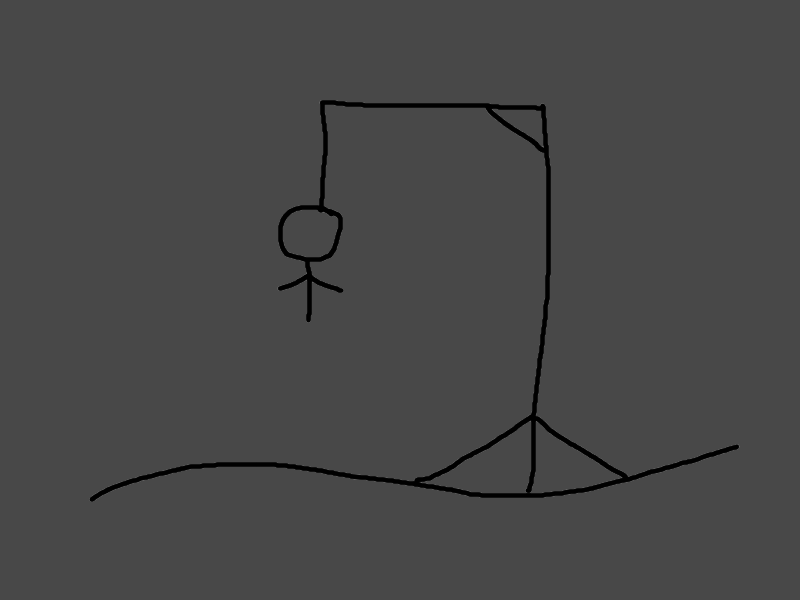
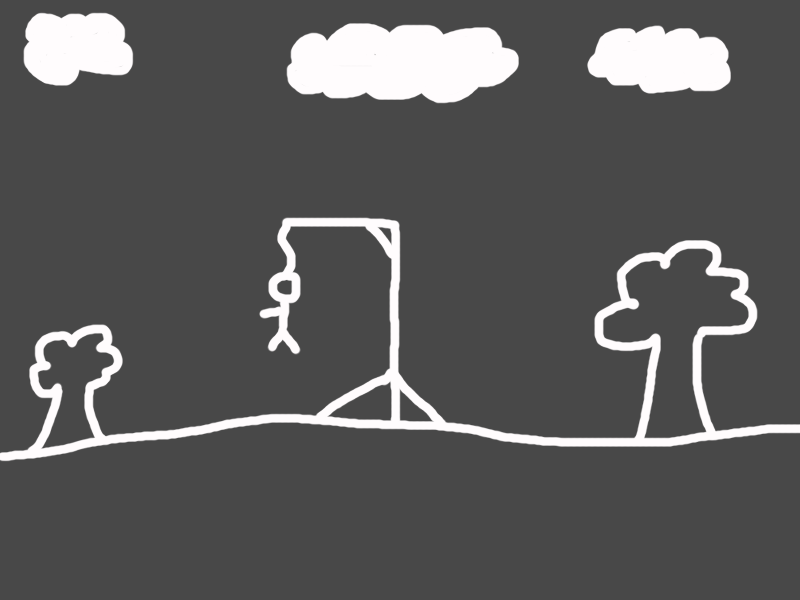
changes hangman images, fixes bug regarding the last image shown before loosing

diff --git a/src/components/Figure.js b/src/components/Figure.js
@@ -21,7 +21,7 @@ const Figure = ( { wrongLetters } ) => {
         const imageList = [IMG0, IMG1, IMG2, IMG3, IMG4, IMG5, IMG6, IMG7, IMG8, IMG9, IMG10, IMG11, IMG12];
         
         if (wrongLetters.length > 0) {
-            return imageList[wrongLetters.length];
+            return imageList[wrongLetters.length - 1];
         } else {
             return imageList[0];
         }   
